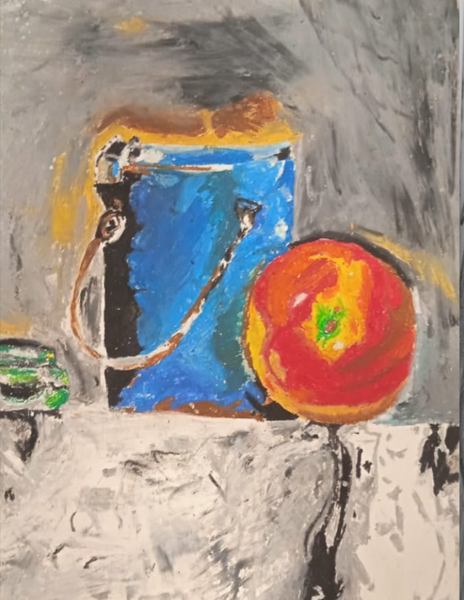
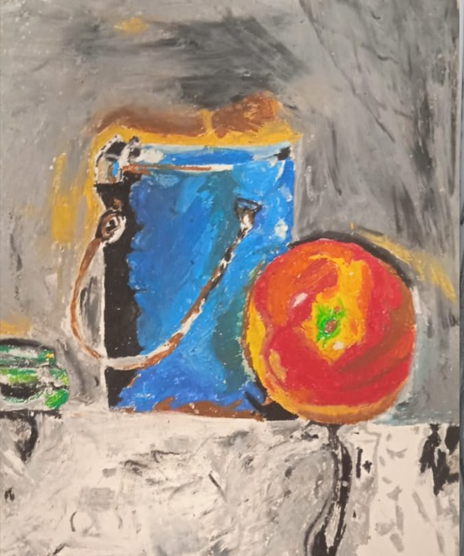
projeto 4 + 2 colunas.
- acrescentei o 4projeto
- removi trabalhos que não correspondiam
-style.css definição das colunas

diff --git a/projetos.html b/projetos.html
@@ -60,7 +60,7 @@
                 <h1>Projetos</h1>
                 <div class="card__container">
                     <article class="card__article"> <!--Projeto 1-->
-                        <img src="Imagens/readme/anatomia.jpg" alt="image" class="card__img">
+                        <img src="Imagens/readme/8.jpg" alt="image" class="card__img">
 
                         <div class="card__data">
                             <h2 class="h6 card__title">Musculatura</h2>
@@ -82,13 +82,24 @@
                     </article>
 
                     <article class="card__article"> <!--Projeto 3-->
-                        <img src="Imagens/readme/pastel-oleo.jpg" alt="image" class="card__img">
+                        <img src="Imagens/readme/pasteloleo.png" alt="image" class="card__img">
 
                         <div class="card__data">
                             <h2 class="h6 card__title">Natureza</h2>
                         </div>
                         <p class="card__description">
-                            Desenho de observação, focado no estudo de Natureza Morta, pintado de forma direta sob o papel com pastel de óleo. O objetivo foi explorar o tracejado de forma realista, captando os volumes e texturas.
+                            Desenho de observação focado no estudo de Natureza Morta, pintado de forma direta sob o papel com pastel de óleo. O objetivo foi explorar o tracejado de forma realista, captando os volumes e texturas .
+                        </p>
+                    </article>
+
+                     <article class="card__article"> <!--Projeto 4-->
+                        <img src="Imagens/readme/10.jpg" alt="image" class="card__img">
+
+                        <div class="card__data">
+                            <h2 class="h6 card__title">Tigre</h2>
+                        </div>
+                        <p class="card__description">
+                            Ilustração em grafite A3 de uma criatura felina etérea formada por nuvens, emergindo sob a luz da lua e sustentada por uma mão humana, evocando fantasia, proteção e mistério.
                         </p>
                     </article>
 

diff --git a/CSS/style.css b/CSS/style.css
@@ -652,7 +652,7 @@ body:has(#contactos) {
 
 .card__container {
   display: grid;
-  grid-template-columns: repeat(auto-fit, minmax(230px, 348px));
+  grid-template-columns: repeat(2, 1fr);
   justify-content: left;
   gap: 2rem;
 
